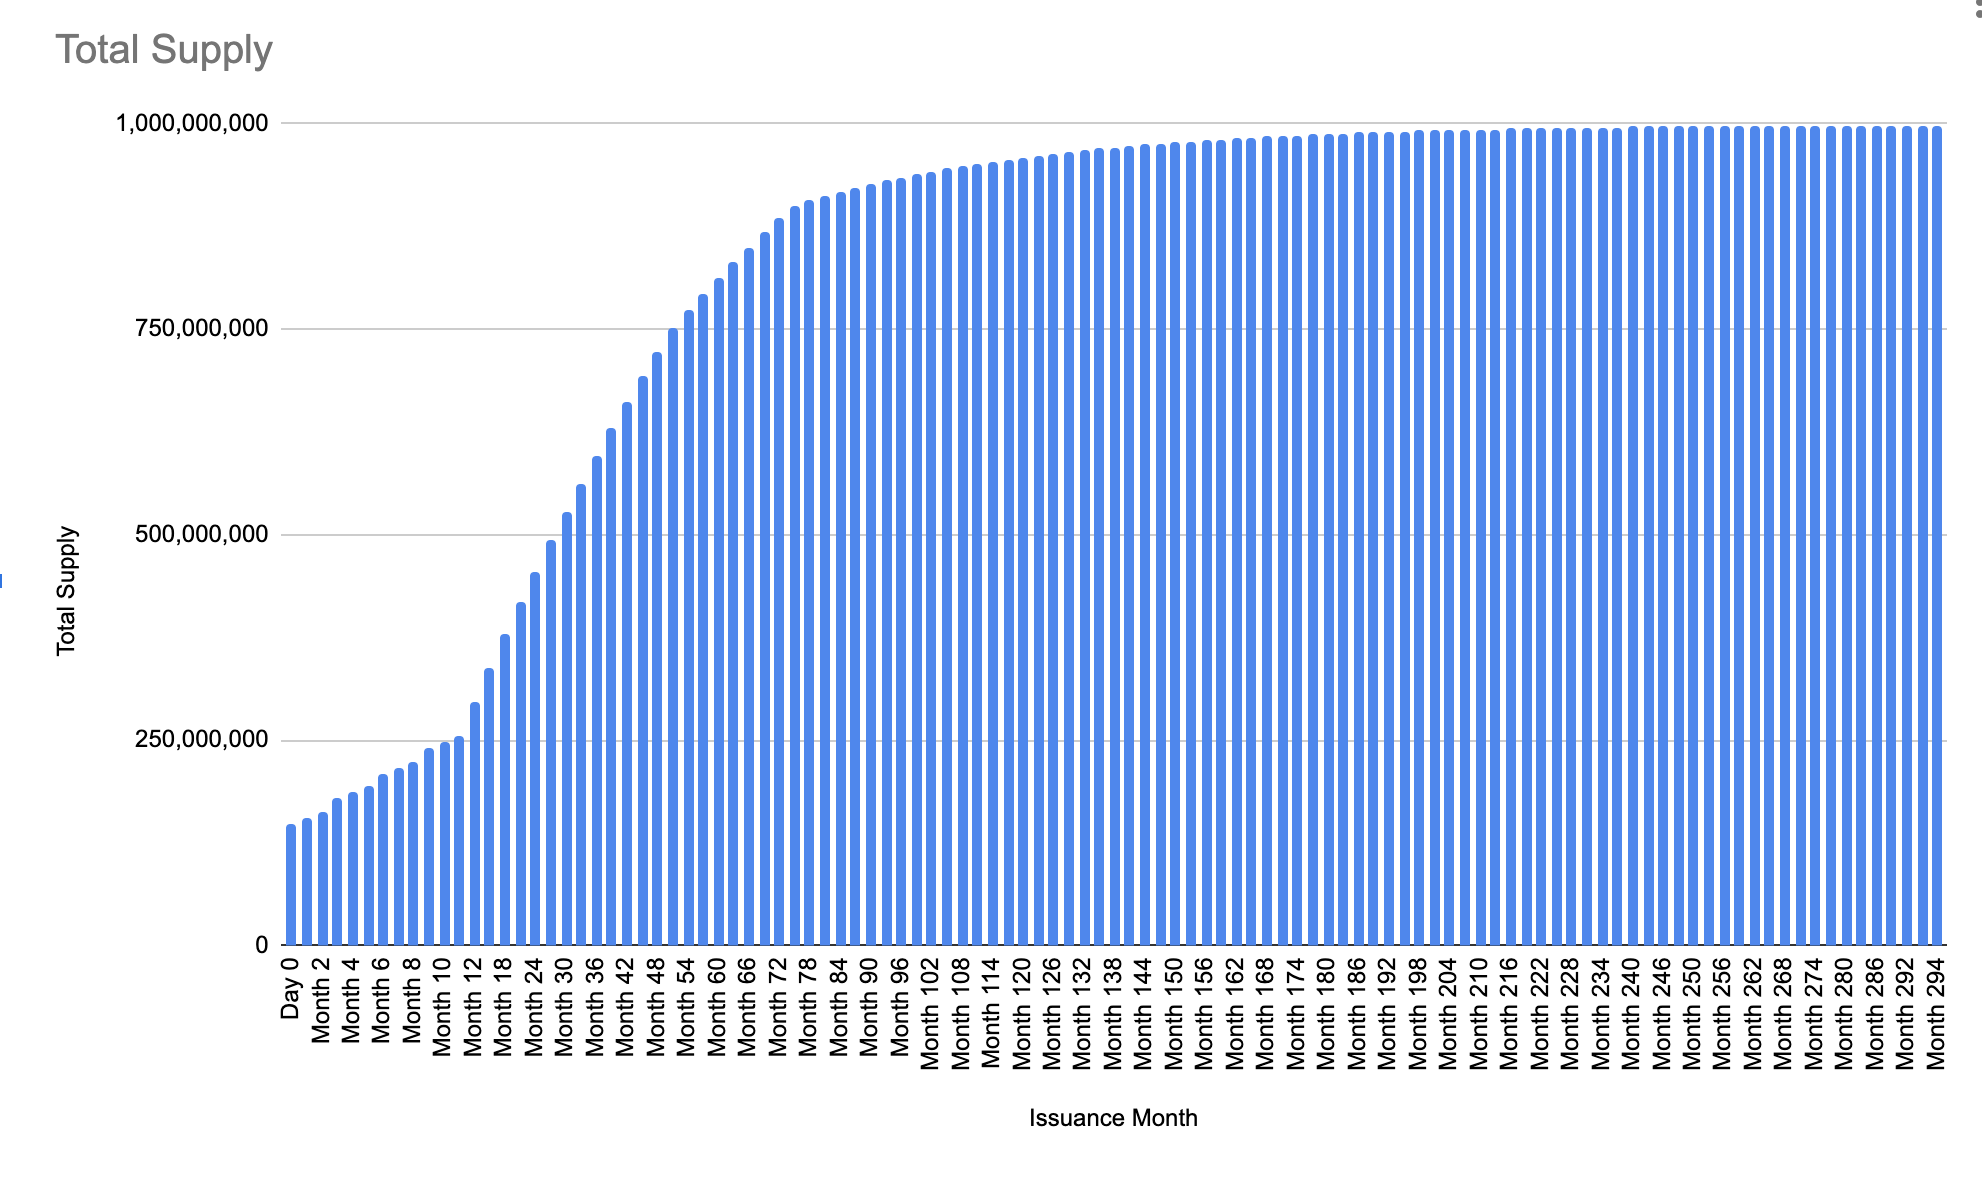
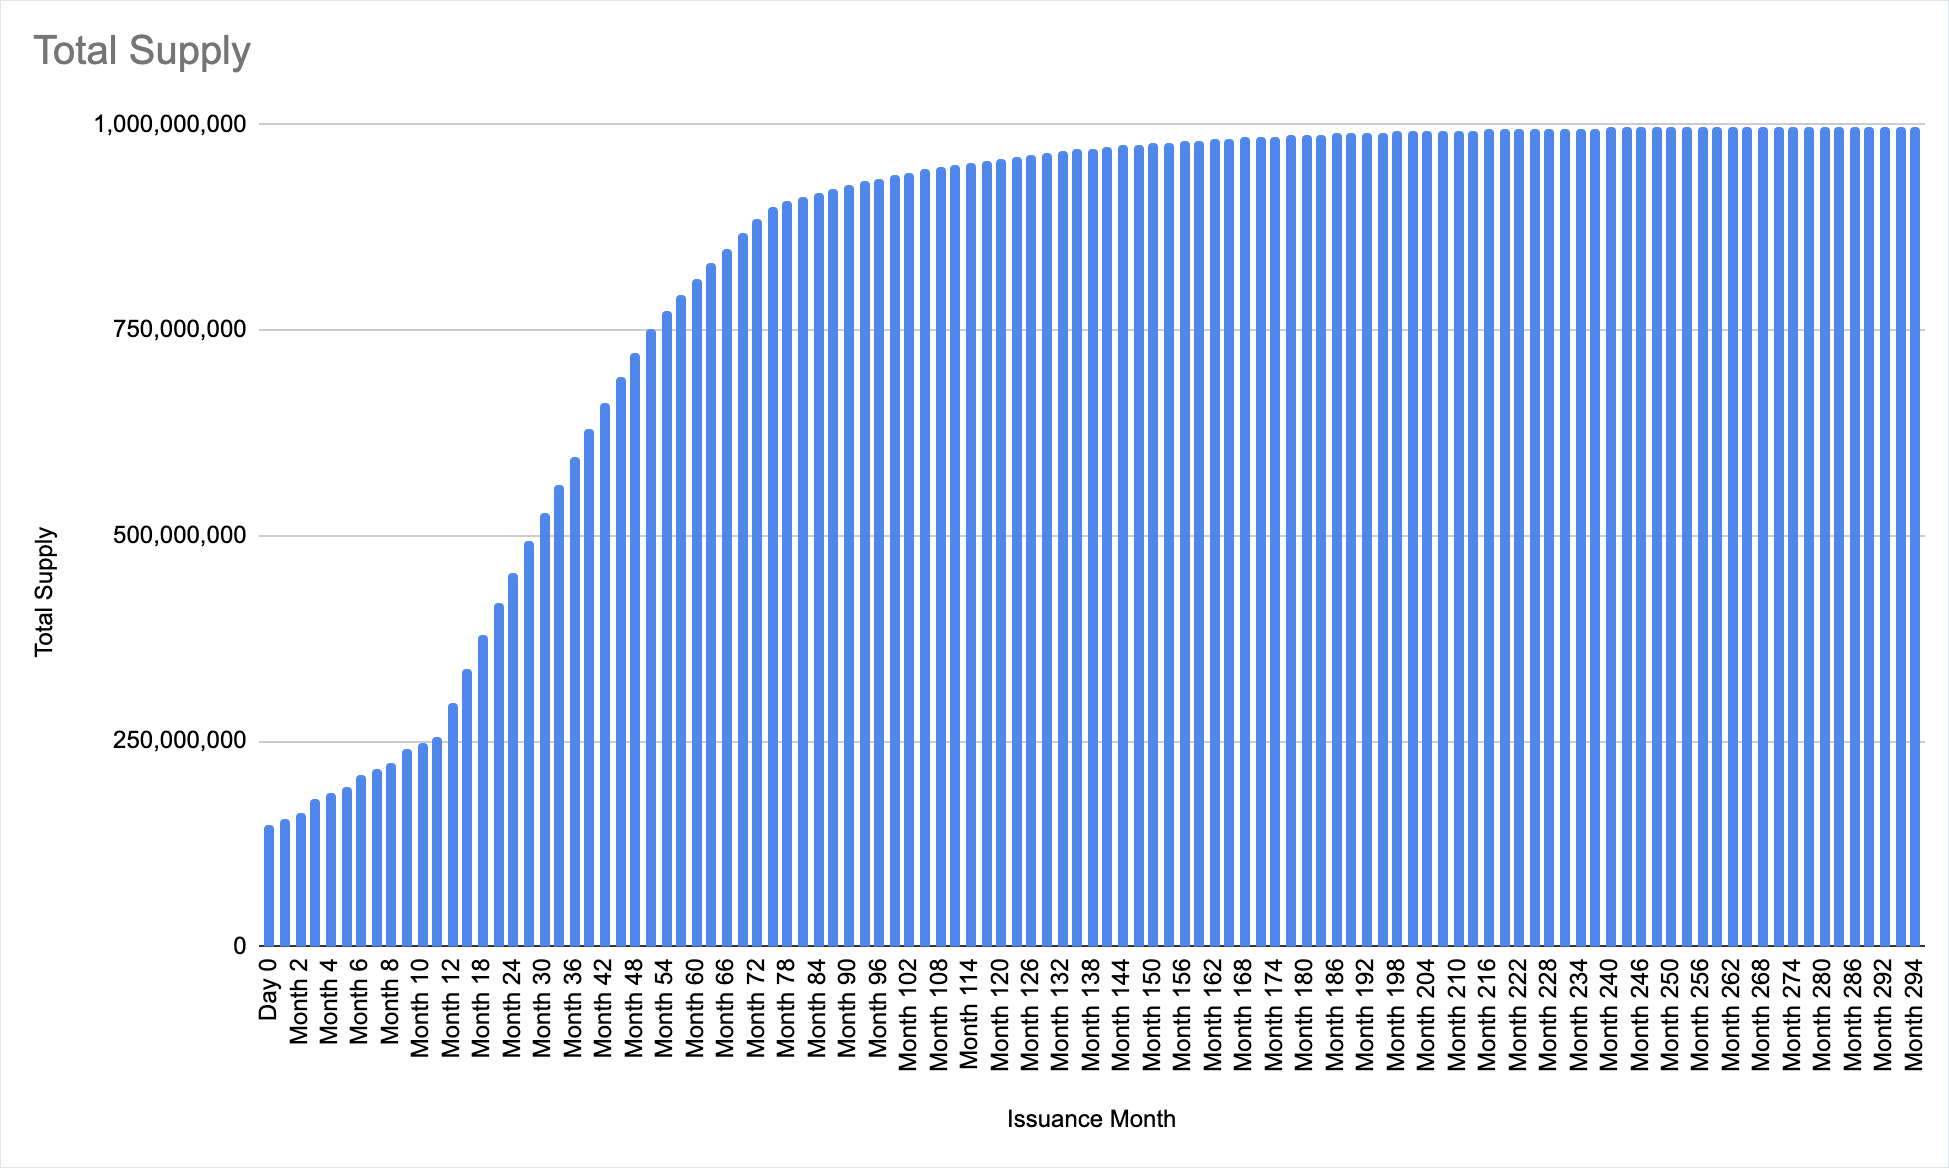
add border around token issuance chart

diff --git a/docs/basics/tokenomics.md b/docs/basics/tokenomics.md
@@ -19,14 +19,14 @@ The quantity of RON reserved for various network functions, as a percentage of t
 * Sky Mavis: 30%
 * Ecosystem fund: 15%
 
-<img src={distribution} width={800} />
+<img src={distribution} width={600} />
 
 After 5 years, gas and protocol fees will totally replace staking rewards.
 
 ## Token release schedule
 The maximum supply of RON will be released after 294 months since the start of issuance. Some delays in issuance related to staking and community rewards should be expected.
 
-<img src={totalSupply} width={800} />
+<img src={totalSupply}/>
 
 For more information, see the [detailed issuance sheet](https://docs.google.com/spreadsheets/d/1gPEbIhTLHNAupXDj71IJsF5T0oe1kB4QBY54vd74Kvo/edit#gid=0).
 
